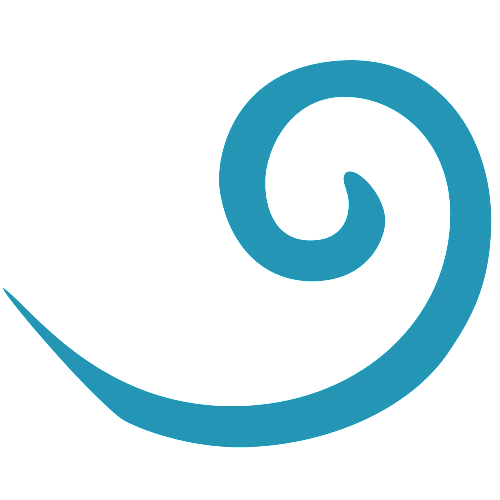
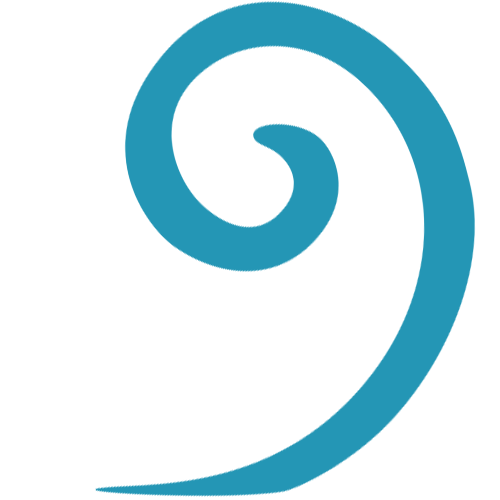
feat:events-hero: cropped image like in figma

Changed region(s): [[0.24, 0.0, 0.99, 0.78], [0.03, 0.6, 0.84, 1.0], [0.0, 0.57, 0.03, 0.6]]

diff --git a/src/components/events/Hero.tsx b/src/components/events/Hero.tsx
@@ -1,6 +1,6 @@
 import Image from 'next/image'
 import landscapePlaceholder from '@/assets/landscape_placeholder.png'
-import blueKoru from '@/assets/blue_koru.png'
+import blueKoru from '@/assets/blue_koru_crop.png'
 
 export default function Hero() {
   return (
